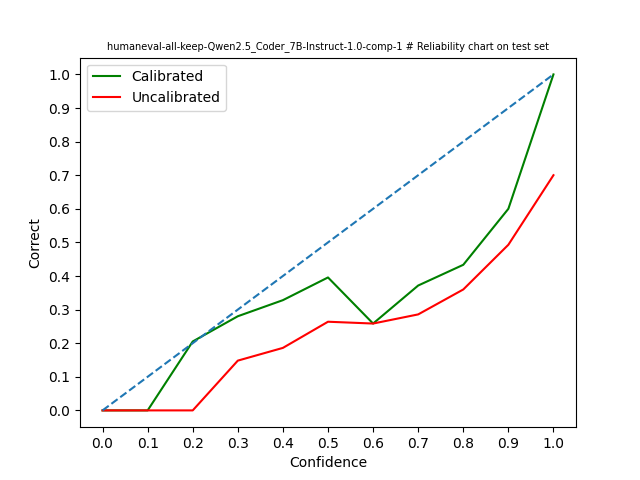
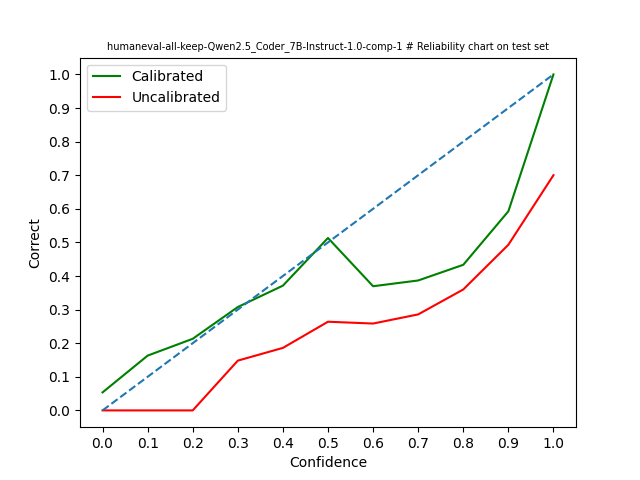
First implementation of Iterative group linear binning -Does not work at the moment (stuck after one iteration) Fixed bug in IGHB -its now argmax P(S_p_g)*(delta**2) not only (delta**2)

diff --git a/tools/iglb_calibration.py b/tools/iglb_calibration.py
@@ -1,0 +1,175 @@
+import numpy as np
+from sklearn.linear_model import LogisticRegression
+from sklearn.model_selection import KFold
+from tools.calibration_scores import score
+from tools import binning
+
+class IGLB_calibration:
+    
+    def __init__(self, grid, alpha, outputs, debug):
+        self.grid = grid
+        self.alpha = alpha
+        self.debug = debug
+        self.outputs = outputs
+        self.score_calibration = score(grid, outputs, debug)
+
+        self.deltas = None
+        self.deltas_square = None
+        self.max_error = 0
+        self.gasce = None
+        self.LS = None
+
+        
+    def fit(self, X, y, groups):
+        assigned_bins = binning.round_model_to_grid(X, self.grid)
+
+        self.deltas = self.get_deltas(assigned_bins, y, groups) 
+
+        self.gasce = np.mean(self.score_calibration.gasce(self.deltas), axis=0)
+        if self.debug: print(f"GASCE: {self.gasce}")
+        
+        self.deltas_square = self.deltas**2
+
+        p_group = groups.sum(axis=0) / len(groups)
+        if self.debug: print(f"P(X)=1: {p_group}")
+        
+        c = self.gasce*p_group
+        if self.debug: print(f"While condition: {c}")
+        
+        self.max_error = c[np.argmax(c)]
+
+        self.LS = self.get_LS(X, y, assigned_bins, groups)
+
+        return self
+
+    def predict(self, X, groups):
+        assigned_bins = binning.round_model_to_grid(X, self.grid)        
+        
+        P_S_p_g = self.get_P_S_p_g(assigned_bins, groups) 
+        tau, bin, group = np.unravel_index((P_S_p_g*self.deltas_square).argmax(), self.deltas.shape)
+        if self.debug: print(f"Max delta in: Tau {tau}, Bin {bin}, Group {group}")
+        
+        print(self.LS[tau, bin, group])
+        if self.debug: print(f"Sigmoid Coef: {self.LS[tau, bin, group].coef_}, Intercept: {self.LS[tau, bin, group].intercept_}")
+
+        for idx, bin_a in enumerate(assigned_bins):
+            if (int(bin_a*10) <= bin) and (groups[idx, group] == 1) and self.LS[tau, bin, group] is not None:
+                self.LS[tau, bin, group].predict([[X[idx]]])[0]
+            else:
+                bin_a
+
+        if tau == 0:
+            X_ = np.array([self.LS[tau, bin, group].predict([[X[idx]]])[0] if (int(bin_a*10) <= bin) and (groups[idx, group] == 1) and self.LS[tau, bin, group] is not None else X[idx] for idx, bin_a in enumerate(assigned_bins)])
+        else:
+            X_ = np.array([self.LS[tau, bin, group].predict([[X[idx]]])[0] if (int(bin_a*10) >= bin) and (groups[idx, group] == 1) and self.LS[tau, bin, group] is not None else X[idx] for idx, bin_a in enumerate(assigned_bins)])
+
+        return X_ 
+
+    """
+        Calculates the group conditional unbiasednes
+    """
+    def gcu(self, label, confidence, groups):
+        gcu = np.round(np.array([np.mean(label[(col == 1)] -  confidence[(col == 1)]) for col in groups.T]), 2)
+        gcu[np.isnan(gcu)] = 0
+        return gcu
+    
+    def get_deltas(self, assigned_bins, y, groups):
+        # Calculate correcteness bias in the given bin and group
+        deltas_smaller = []
+        for i in self.grid:
+            temp = []
+            for g in groups.T:
+                temp.append(np.mean(y[(assigned_bins <= i) & (g == 1)] -  assigned_bins[(assigned_bins <= i) & (g == 1)]))
+            deltas_smaller.append(temp)
+        
+        deltas_greater = []
+        for i in self.grid:
+            temp = []
+            for g in groups.T:
+                temp.append(np.mean(y[(assigned_bins >= i) & (g == 1)] -  assigned_bins[(assigned_bins >= i) & (g == 1)]))
+            deltas_greater.append(temp)
+        
+        deltas = np.stack([np.array(deltas_smaller), np.array(deltas_greater)])
+        deltas[np.isnan(deltas)] = 0   
+
+        return deltas
+    
+    def get_P_S_p_g(self, assigned_bins, groups):
+        P_S_p_g_smaller = []
+
+        for i in self.grid:
+            temp = []
+            for g in groups.T:
+                temp.append(len(assigned_bins[(assigned_bins <= i) & (g == 1)]) / len(assigned_bins))
+            P_S_p_g_smaller.append(temp)
+
+        P_S_p_g_greater = []
+
+        for i in self.grid:
+            temp = []
+            for g in groups.T:
+                temp.append(len(assigned_bins[(assigned_bins >= i) & (g == 1)]) / len(assigned_bins))
+            P_S_p_g_greater.append(temp)
+
+        P_S_p_g = np.stack([np.array(P_S_p_g_smaller), np.array(P_S_p_g_greater)]) 
+        P_S_p_g[np.isnan(P_S_p_g)] = 0   
+
+        return P_S_p_g
+    
+    def get_LS(self, X, is_correct, assigned_bins, groups):
+        LS_smaller = []
+        
+        for i in self.grid:
+            temp = []
+            for g in groups.T:
+                calibrator = LogisticRegression()
+                if len(np.unique(is_correct[(X <= i) & (g == 1)])) < 2:
+                    temp.append(None)
+                else:
+                    calibrator.fit(X[(X <= i) & (g == 1)].reshape(-1, 1), is_correct[(X <= i) & (g == 1)])
+                    temp.append(calibrator) 
+            LS_smaller.append(temp)
+
+        LS_greater = []
+
+        for i in self.grid:
+            temp = []
+            for g in groups.T:
+                calibrator = LogisticRegression()
+                if len(np.unique(is_correct[(X >= i) & (g == 1)])) < 2:
+                    temp.append(None)
+                else:
+                    calibrator.fit(X[(X >= i) & (g == 1)].reshape(-1, 1), is_correct[(X >= i) & (g == 1)])
+                    temp.append(calibrator) 
+            LS_greater.append(temp)
+
+        LS = np.stack([np.array(LS_smaller), np.array(LS_greater)]) 
+
+        return LS
+
+    def calib_score(self, probs, label, groups, set_b_ref=False):
+        # Number of samples in X
+        num_samples = len(probs)
+        
+        # Number of correct samples
+        num_correct = np.count_nonzero(label == 1)
+
+        # Assign the values in X to the corresponding bin (discretize values)
+        assigend_bins = binning.round_model_to_grid(probs, self.grid)
+        if self.debug: print(f"TEST Assigned Bins: {assigend_bins}")
+
+        # Calculate some metrics on the UNcorrected values
+        total, correctness, confidence = binning.bin_round_probabilities_discret(assigend_bins, label, self.grid)
+
+        # Calculate calibrations scores
+        scores = self.score_calibration.calc_all(set_b_ref, 
+                                                assigend_bins, 
+                                                label, 
+                                                num_correct, 
+                                                num_samples, 
+                                                assigend_bins, 
+                                                correctness, 
+                                                total, 
+                                                confidence)
+        
+        return total, correctness, scores

diff --git a/tools/ighb_calibration.py b/tools/ighb_calibration.py
@@ -20,7 +20,8 @@ class IGHB_calibration:
         
     def fit(self, X, y, groups):
         assigned_bins = binning.round_model_to_grid(X, self.grid)
-        self.deltas, self.gasce = self.score_calibration.gasce(assigned_bins, y, groups)
+        self.deltas = self.get_deltas(assigned_bins, y, groups) 
+        self.gasce = self.score_calibration.gasce(self.deltas)
 
         self.deltas_square = self.deltas**2
 
@@ -40,7 +41,18 @@ class IGHB_calibration:
 
     def predict(self, X, groups):
         assigned_bins = binning.round_model_to_grid(X, self.grid)
-        bin, group = np.unravel_index(self.deltas_square.argmax(), self.deltas.shape)
+
+        P_S_p_g = []
+
+        for i in self.grid:
+            temp = []
+            for g in groups.T:
+                temp.append(len(assigned_bins[(assigned_bins == i) & (g == 1)]) / len(X))
+            P_S_p_g.append(temp)
+
+        P_S_p_g = np.array(P_S_p_g)    
+
+        bin, group = np.unravel_index((P_S_p_g*self.deltas_square).argmax(), self.deltas.shape)
         if self.debug: print(f"Max delta in: Bin {bin}, Group {group}")
         
         max_delta = self.deltas[bin, group]
@@ -57,6 +69,20 @@ class IGHB_calibration:
         gcu = np.round(np.array([np.mean(label[(col == 1)] -  confidence[(col == 1)]) for col in groups.T]), 2)
         gcu[np.isnan(gcu)] = 0
         return gcu
+
+    def get_deltas(self, assigned_bins, y, groups):
+        # Calculate correcteness bias in the given bin and group
+        deltas = []
+        for i in self.grid:
+            temp = []
+            for g in groups.T:
+                temp.append(np.mean(y[(assigned_bins == i) & (g == 1)] -  assigned_bins[(assigned_bins == i) & (g == 1)]))
+            deltas.append(temp)
+        
+        deltas = np.array(deltas)
+        deltas[np.isnan(deltas)] = 0   
+
+        return deltas
     
 
     def calib_score(self, probs, label, groups, set_b_ref=False):

diff --git a/run_iglb.py b/run_iglb.py
@@ -5,19 +5,20 @@ import pandas as pd
 from sklearn.model_selection import train_test_split
 from tools import data, binning
 from tools.create_charts import chart_creator
-from tools.ighb_calibration import IGHB_calibration
+from tools.iglb_calibration import IGLB_calibration
 from tools.groups import groups
 from tabulate import tabulate
 
 BASE_DIR    = "/data/stud/2025-MA-kuschnereit/masterarbeit/"
 CHART_DIR = BASE_DIR+"charts/"
 
-DEBUG = False
+DEBUG = True
 OUTPUTS = True
 
 binning_type = 'linear'
 binning_step_size = 0.1
 m = 10
+alpha = 0.005
 
 use_train_test_split = True
 
@@ -70,6 +71,8 @@ def main():
         if use_train_test_split:
             # Split in train and test
             train_X, test_X, train_y, test_y, train_groups, test_groups = train_test_split(probs, is_correct, groups_w, test_size=0.33, random_state=42)
+            if DEBUG: print(f"Training values: {train_X}")
+            if DEBUG: print(f"Test values: {test_X}")
         else:
             train_X = probs
             test_X = probs
@@ -89,10 +92,8 @@ def main():
             # get the middle of the bins for hb
             grid = np.array(((bin_edges[1:]-bin_edges[:-1])/2)+bin_edges[:-1]) 
             charts = chart_creator(run, binning_type, grid, save_dir, bin_edges=bin_edges)
-
-        alpha = 0.01
         
-        ighb = IGHB_calibration(grid, alpha, OUTPUTS, DEBUG).fit(test_X, test_y, test_groups)
+        ighb = IGLB_calibration(grid, alpha, OUTPUTS, DEBUG).fit(test_X, test_y, test_groups)
         total_uncalibrated, correctness_uncalibrated, scores_uncalibrated = ighb.calib_score(test_X, test_y, test_groups, set_b_ref=True)
         
         calibrated_conf = test_X

diff --git a/tools/calibration_scores.py b/tools/calibration_scores.py
@@ -93,21 +93,13 @@ class score:
 
         return np.round(expec_var, 2)
 
-    def gasce(self, assigned_bins, y, groups):
-        # Calculate correcteness bias in the given bin and group
-        deltas = []
-        for i in self.grid:
-            temp = []
-            for g in groups.T:
-                temp.append(np.mean(y[(assigned_bins == i) & (g == 1)] -  assigned_bins[(assigned_bins == i) & (g == 1)]))
-            deltas.append(temp)
-        
-        deltas = np.array(deltas)
-        deltas[np.isnan(deltas)] = 0   
+    def gasce(self, deltas, iglb=True):
+        if iglb:
+            gasce = np.mean(deltas**2, axis=1)
+        else:
+            gasce = np.mean(deltas**2, axis=0)
 
-        gasce = np.mean(deltas**2, axis=0)
-
-        return deltas, gasce
+        return gasce
 
     def calc_all(   self, 
                     set_brier_ref, # to differentiate between fit and predict
